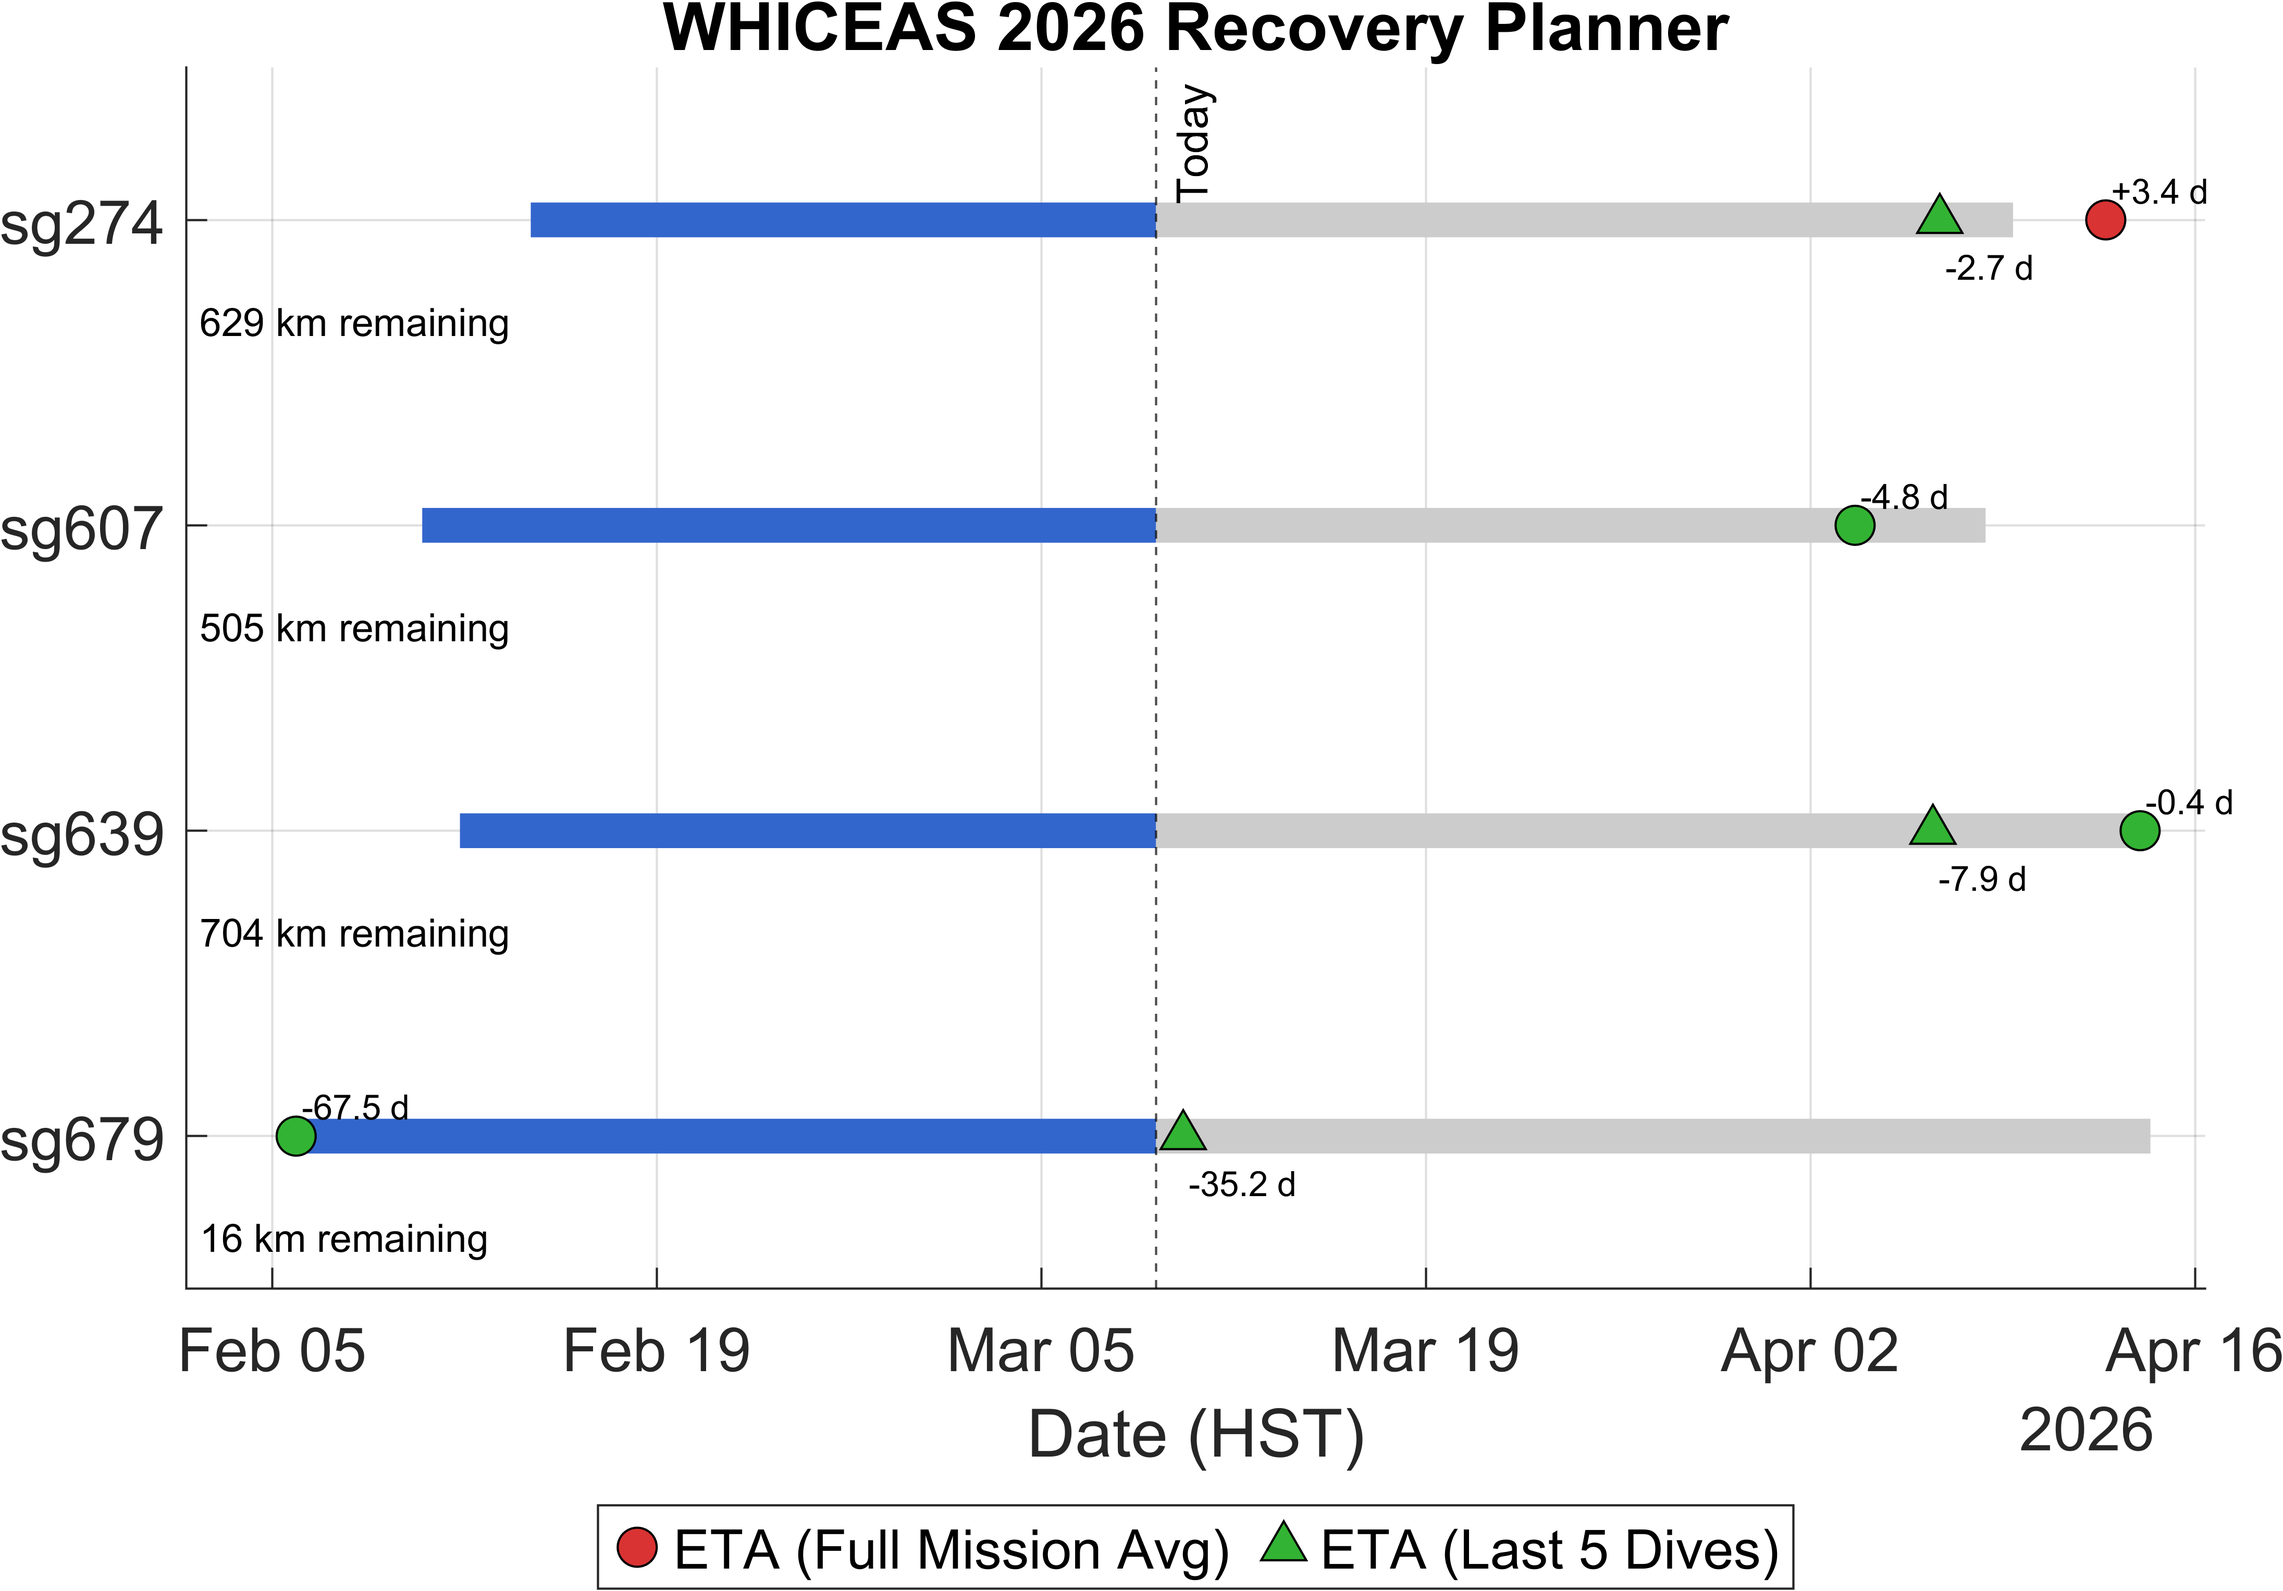
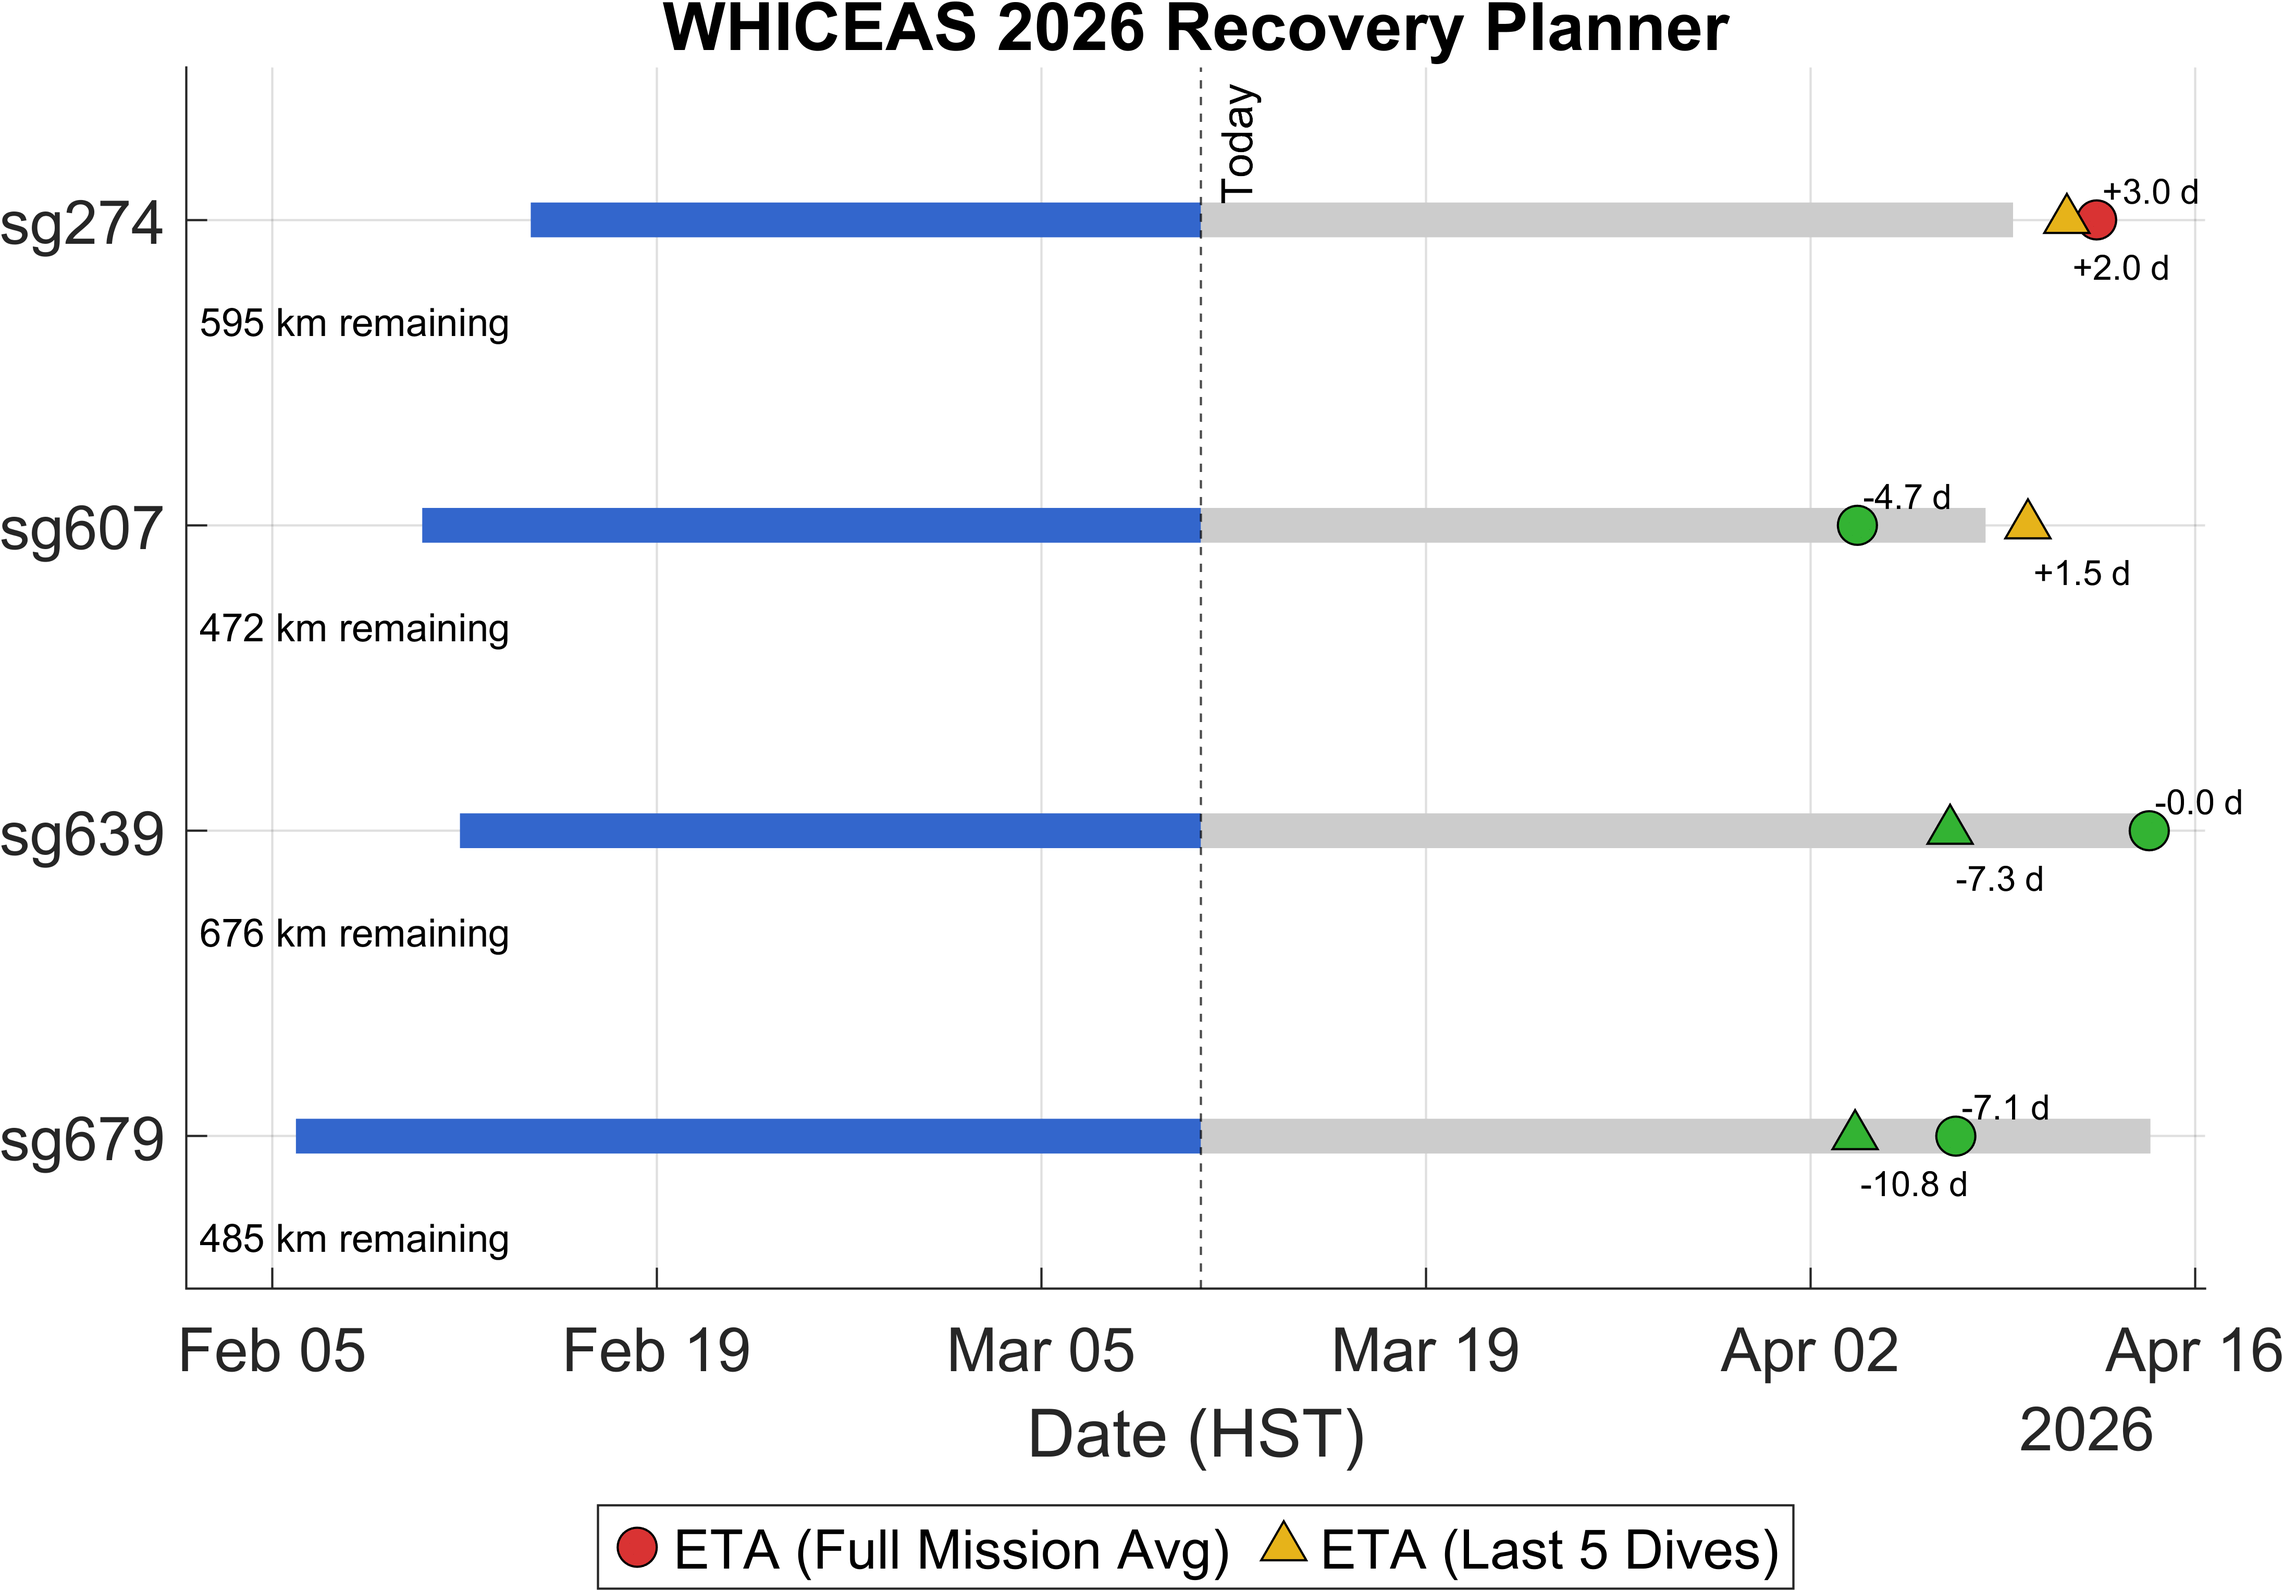
latest run

diff --git a/matlab/WHICEAS_glider_downloads.m b/matlab/WHICEAS_glider_downloads.m
@@ -38,11 +38,11 @@ missionPaths = {
 
 % names of configuration files (this might differ across computers)
 configFiles = {
-fullfile(missionPaths{1}, 'agate_config_sg274_20260128_WHICEAS.cnf');
-fullfile(missionPaths{2}, 'agate_config_sg607_20260128_WHICEAS.cnf');
-fullfile(missionPaths{3}, 'agate_config_sg639_20260211_WHICEAS.cnf');
-fullfile(missionPaths{4}, 'agate_config_sg679_20260205_WHICEAS.cnf')
-};
+    fullfile(missionPaths{1}, 'agate_config_sg274_20260128_WHICEAS.cnf');
+    fullfile(missionPaths{2}, 'agate_config_sg607_20260128_WHICEAS.cnf');
+    fullfile(missionPaths{3}, 'agate_config_sg639_20260211_WHICEAS.cnf');
+    fullfile(missionPaths{4}, 'agate_config_sg679_20260205_WHICEAS.cnf')
+    };
 
 %% Run each glider
 % this can be a little slow because of SSH and downloads
@@ -61,13 +61,14 @@ ppStruct.sg679 = workflow_downloadScript_sg679_20260205_WHICEAS(configFiles{4}, 
 % define targets - with midpoints for calculations
 targetsMidpointsFiles = { ...
     % 'targets_WHICEAS_SG274_1200km_WN_20260209_withMidpoints';
-    'targets_WHICEAS_SG274_1050km_WN_20260225_withMidpoints'; 
-    % 'targets_WHICEAS_SG607_950km_LN_20260209_withMidpoints'; 
-    'targets_WHICEAS_SG607_1050km_LN_20260224_withMidpoints'; 
+    'targets_WHICEAS_SG274_1050km_WN_20260225_withMidpoints';
+    % 'targets_WHICEAS_SG607_950km_LN_20260209_withMidpoints';
+    'targets_WHICEAS_SG607_1050km_LN_20260224_withMidpoints';
     % 'targets_WHICEAS_sg639_1200km_LS_20260211_withMidpoints';
-    % 'targets_WHICEAS_sg639_1200km_LS_20260224_withMidpoints'; 
+    % 'targets_WHICEAS_sg639_1200km_LS_20260224_withMidpoints';
     'targets_WHICEAS_sg639_1200km_LS_20260228_withMidpoints';
-    'targets_WHICEAS_sg679_1200km_WS_20260211_withMidpoints'};
+    % 'targets_WHICEAS_sg679_1200km_WS_20260211_withMidpoints'};
+    'targets_WHICEAS_sg679_1080km_WS_20260309_withMidpoints'};
 
 % define dive limits (to exclude rodeo)
 diveLimits = [92; 66; 1; 1];
@@ -79,9 +80,9 @@ diveLimits = [92; 66; 1; 1];
 
 % planned recovery dates
 plannedRecov = datetime({ ...
-    '2026-04-09 9:00'; 
-    '2026-04-08 9:00'; 
-    '2026-04-14 9:00'; 
+    '2026-04-09 9:00';
+    '2026-04-08 9:00';
+    '2026-04-14 9:00';
     '2026-04-14 9:00'
     });
 plannedRecov.TimeZone = 'Pacific/Honolulu';
@@ -120,7 +121,8 @@ targetsFiles = {
     % 'targets_WHICEAS_sg639_1200km_LS_20260211;
     % 'targets_WHICEAS_sg639_1200km_LS_20260224';
     'targets_WHICEAS_sg639_1200km_LS_20260228';
-    'targets_WHICEAS_sg679_1200km_WS_20260211'};
+    % 'targets_WHICEAS_sg679_1200km_WS_20260211'};
+'targets_WHICEAS_sg679_1080km_WS_20260309'};
 
 % build basemap - use most recent config for bathy
 % use 274's cofnig to start
